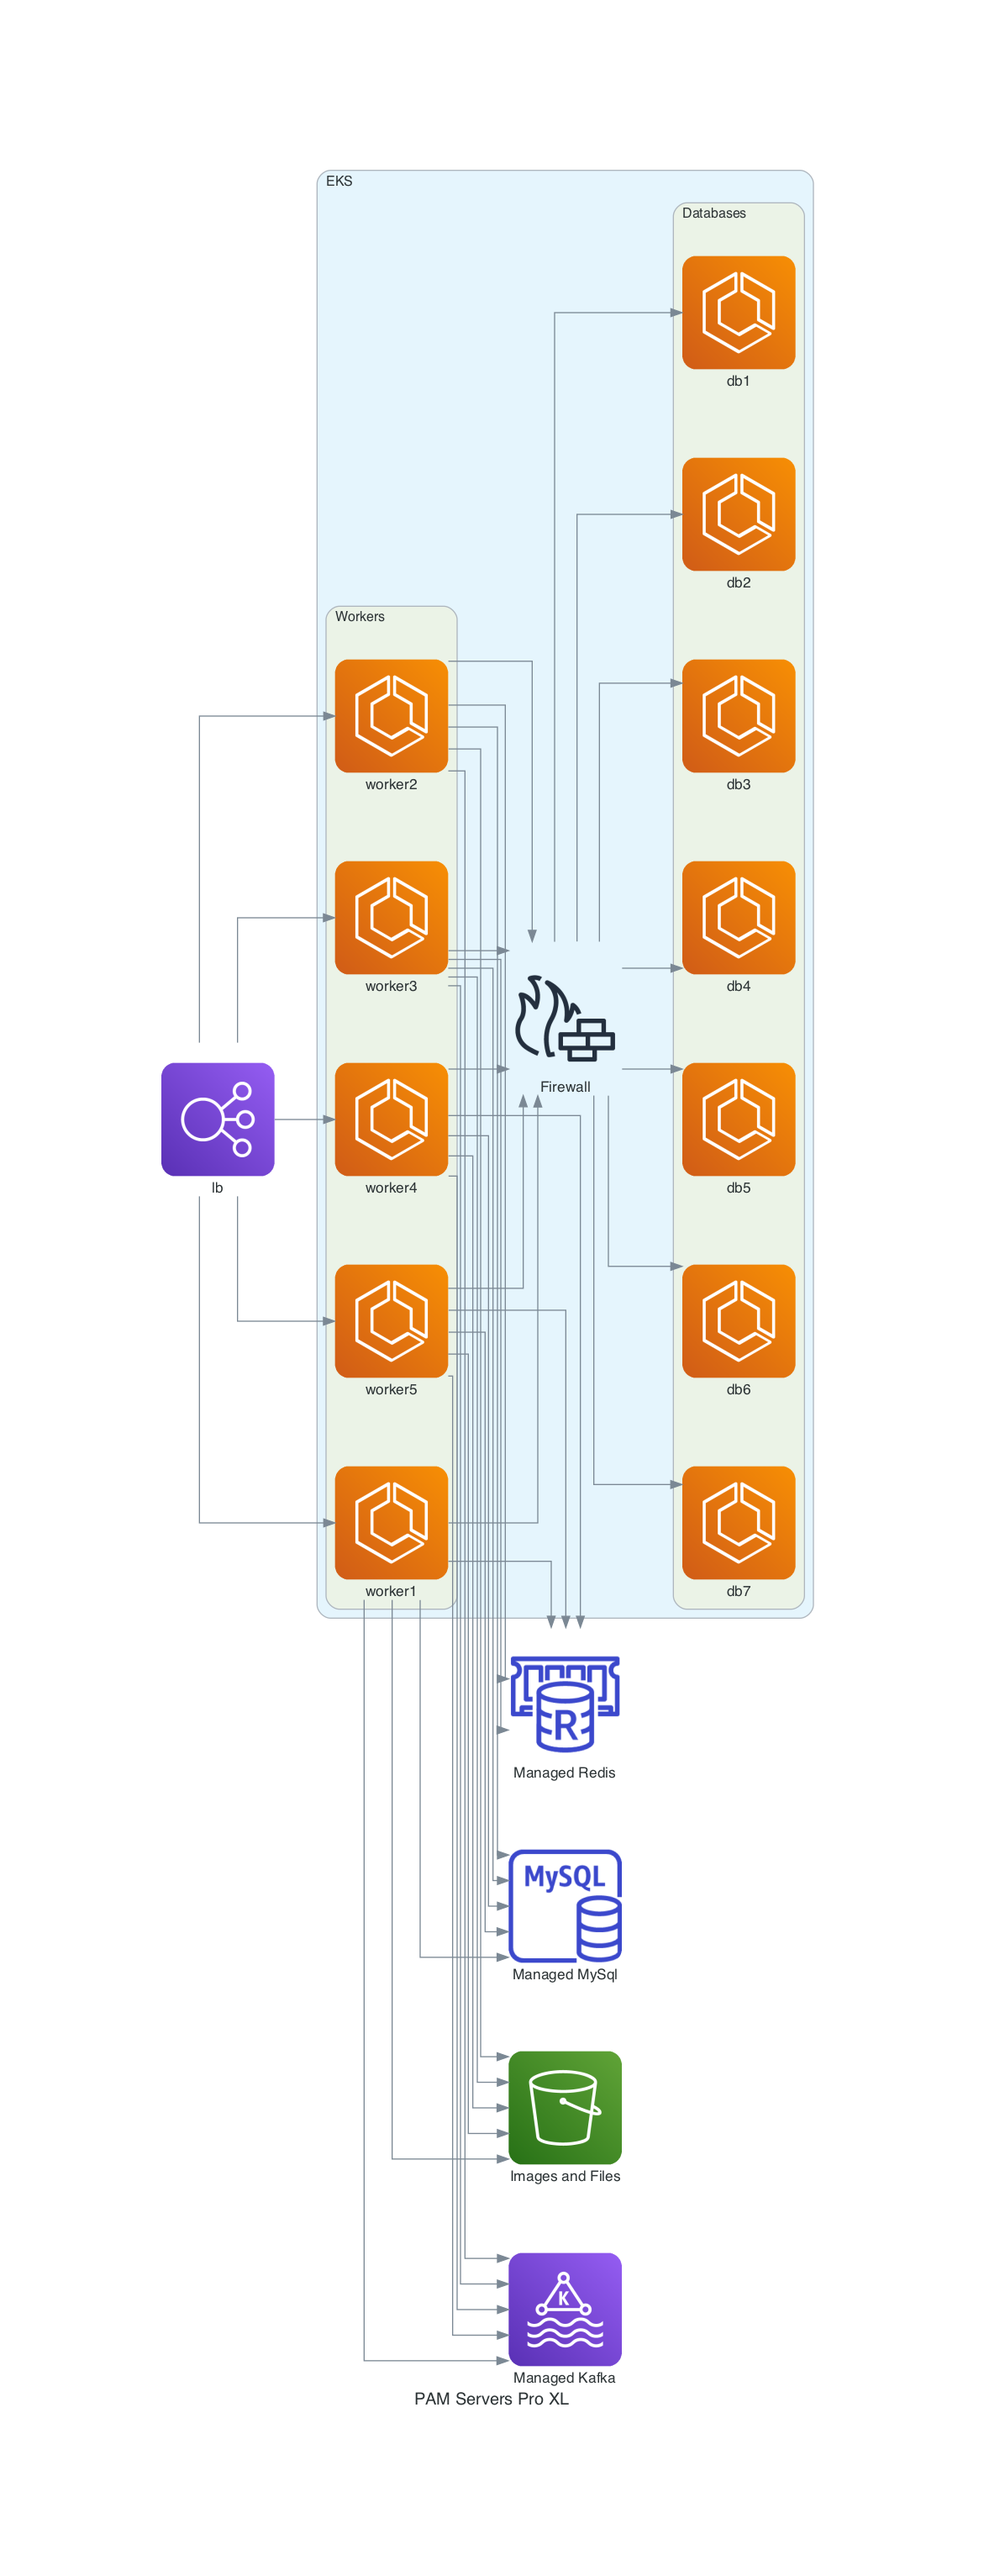
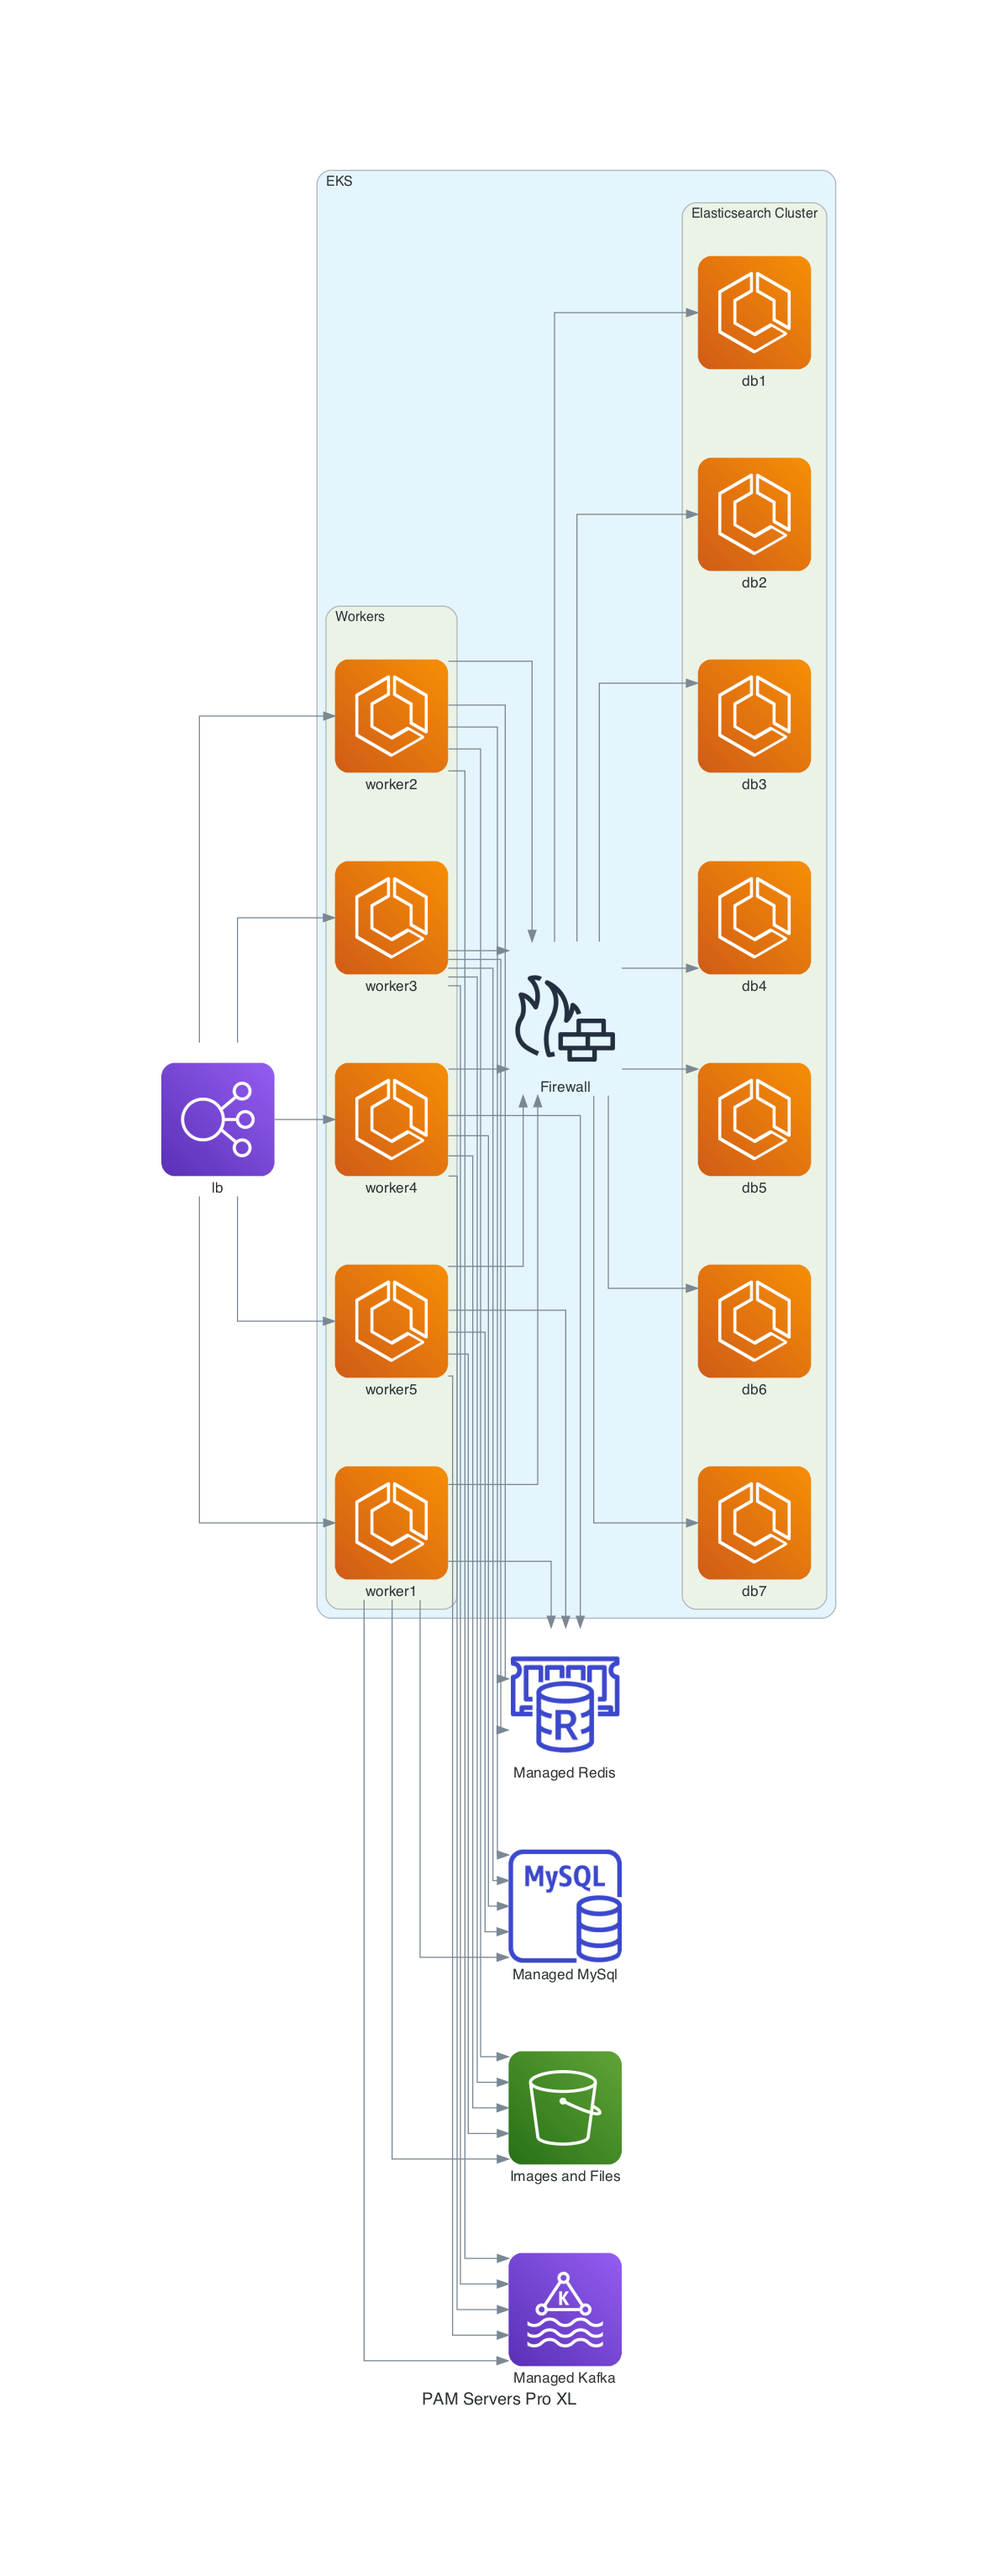
Update els cluster name

Changed region(s): [[0.3074, 0.062, 0.6456, 0.9299], [0.6763, 0.062, 0.8608, 0.6199], [0.1845, 0.279, 0.2767, 0.5889]]

diff --git a/pam-servers.py b/pam-servers.py
@@ -19,7 +19,7 @@ with Diagram("PAM Servers Mini", show=False):
 
         fw = GenericFirewall("Firewall")
 
-        with Cluster("Databases"):
+        with Cluster("Elasticsearch Cluster"):
             dbs = [ECS("db1"),
                    ECS("db2"),
                    ECS("db3")]
@@ -47,7 +47,7 @@ with Diagram("PAM Servers Basic", show=False):
 
         fw = GenericFirewall("Firewall")
 
-        with Cluster("Databases"):
+        with Cluster("Elasticsearch Cluster"):
             dbs = [ECS("db1"),
                    ECS("db2"),
                    ECS("db3")]
@@ -75,7 +75,7 @@ with Diagram("PAM Servers Pro", show=False):
 
         fw = GenericFirewall("Firewall")
 
-        with Cluster("Databases"):
+        with Cluster("Elasticsearch Cluster"):
             dbs = [ECS("db1"),
                    ECS("db2"),
                    ECS("db3"),
@@ -107,7 +107,7 @@ with Diagram("PAM Servers Pro XL", show=False):
 
         fw = GenericFirewall("Firewall")
 
-        with Cluster("Databases"):
+        with Cluster("Elasticsearch Cluster"):
             dbs = [ECS("db1"),
                    ECS("db2"),
                    ECS("db3"),
@@ -144,7 +144,7 @@ with Diagram("PAM Servers Pro 2XL", show=False):
 
         fw = GenericFirewall("Firewall")
 
-        with Cluster("Databases"):
+        with Cluster("Elasticsearch Cluster"):
             dbs = [ECS("db1"),
                    ECS("db2"),
                    ECS("db3"),
